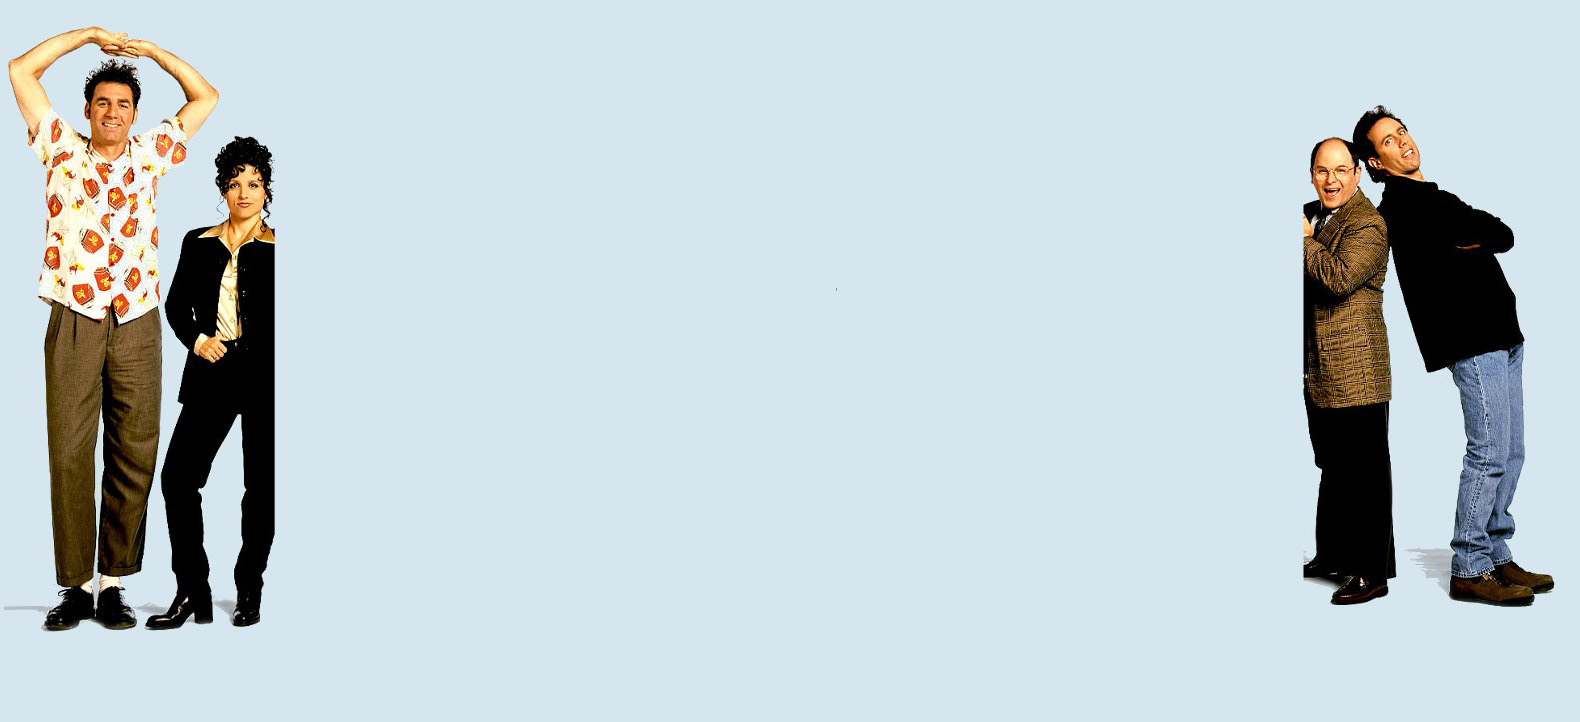
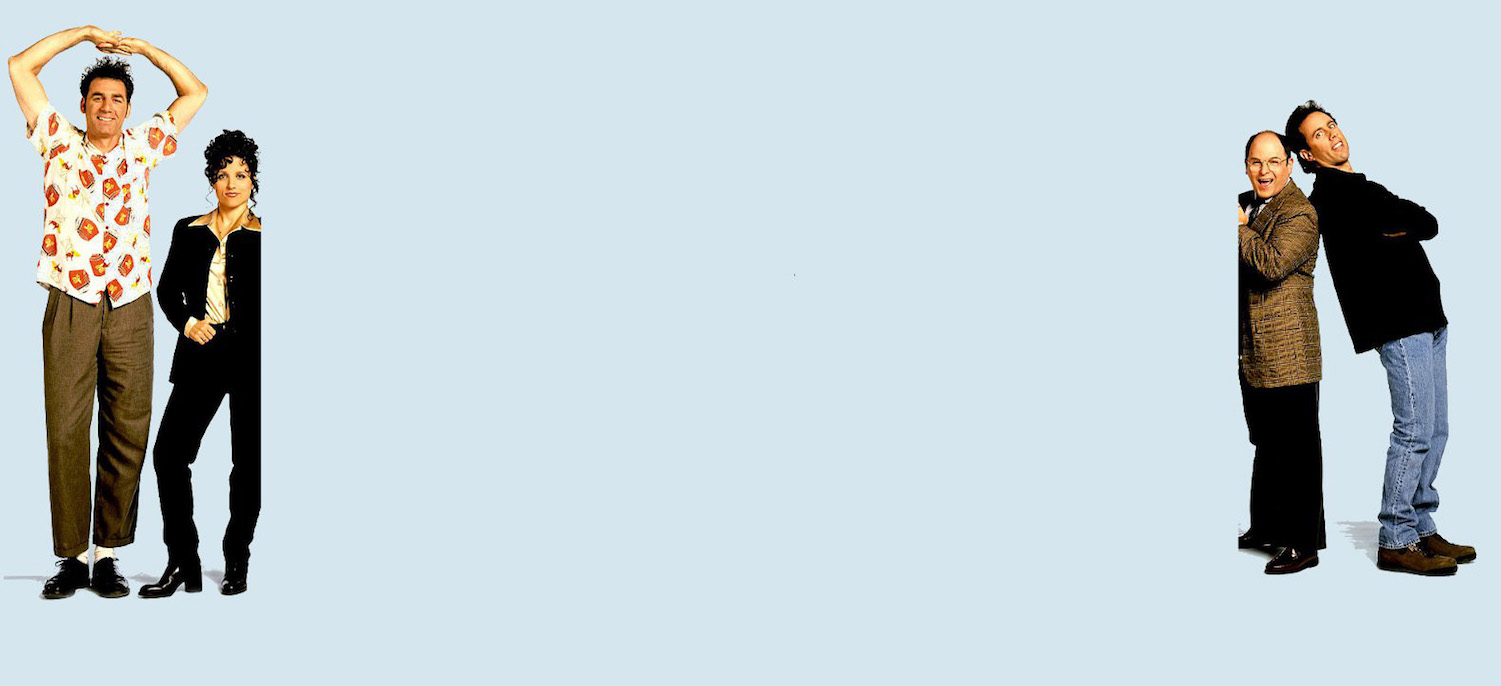
background

diff --git a/index.html b/index.html
@@ -3,12 +3,13 @@
 <head>
 	<title>Seinfeld Trivia Game</title>
 
-	  <meta charset="utf-8">
-	<link rel="stylesheet" type="text/css" href="assets/css/reset.css">
-	<link rel="stylesheet" type="text/css" href="assets/css/style.css">
-	
+	<meta charset="utf-8">
 	<link rel="stylesheet" href="https://maxcdn.bootstrapcdn.com/bootstrap/3.3.7/css/bootstrap.min.css" integrity="sha384-BVYiiSIFeK1dGmJRAkycuHAHRg32OmUcww7on3RYdg4Va+PmSTsz/K68vbdEjh4u" crossorigin="anonymous">
 	<link href="https://fonts.googleapis.com/css?family=Arapey" rel="stylesheet">
+	
+	<link rel="stylesheet" type="text/css" href="assets/css/reset.css">
+	<link rel="stylesheet" type="text/css" href="assets/css/style.css">
+
 
 </head>
 <body>
@@ -29,7 +30,7 @@
 					
 								<div id="master">
 										<div class="row col-md-12">
-											 <div>Time is a ticking.. <span id="time">2:00</span></div></div>
+											 <div class="timer">Time is a ticking... <span id="time">2:00</span></div></div>
 
 
 										<div class="row col-md-12">

diff --git a/assets/css/style.css b/assets/css/style.css
@@ -1,11 +1,15 @@
+* { 
+  box-sizing: border-box; 
+}
+
 .container{ 
 	max-width: 980px;
 
  }
 
  body { 
-    background-color:  #d5e6ee ;
-	
+    background-color: #d5e6ee ;
+	background-image: url(../images/background.jpg);
 	background-attachment: fixed;
 	background-position: center; 
 	background-repeat: no-repeat;
@@ -52,4 +56,11 @@
 	margin-bottom: 20px;
 	text-align: center;
  }
+
+ .timer { 
+	font-size: 30px;
+	color: red;
+	text-align: center;
+	font-family: 'Arapey', serif;
+  }
 
